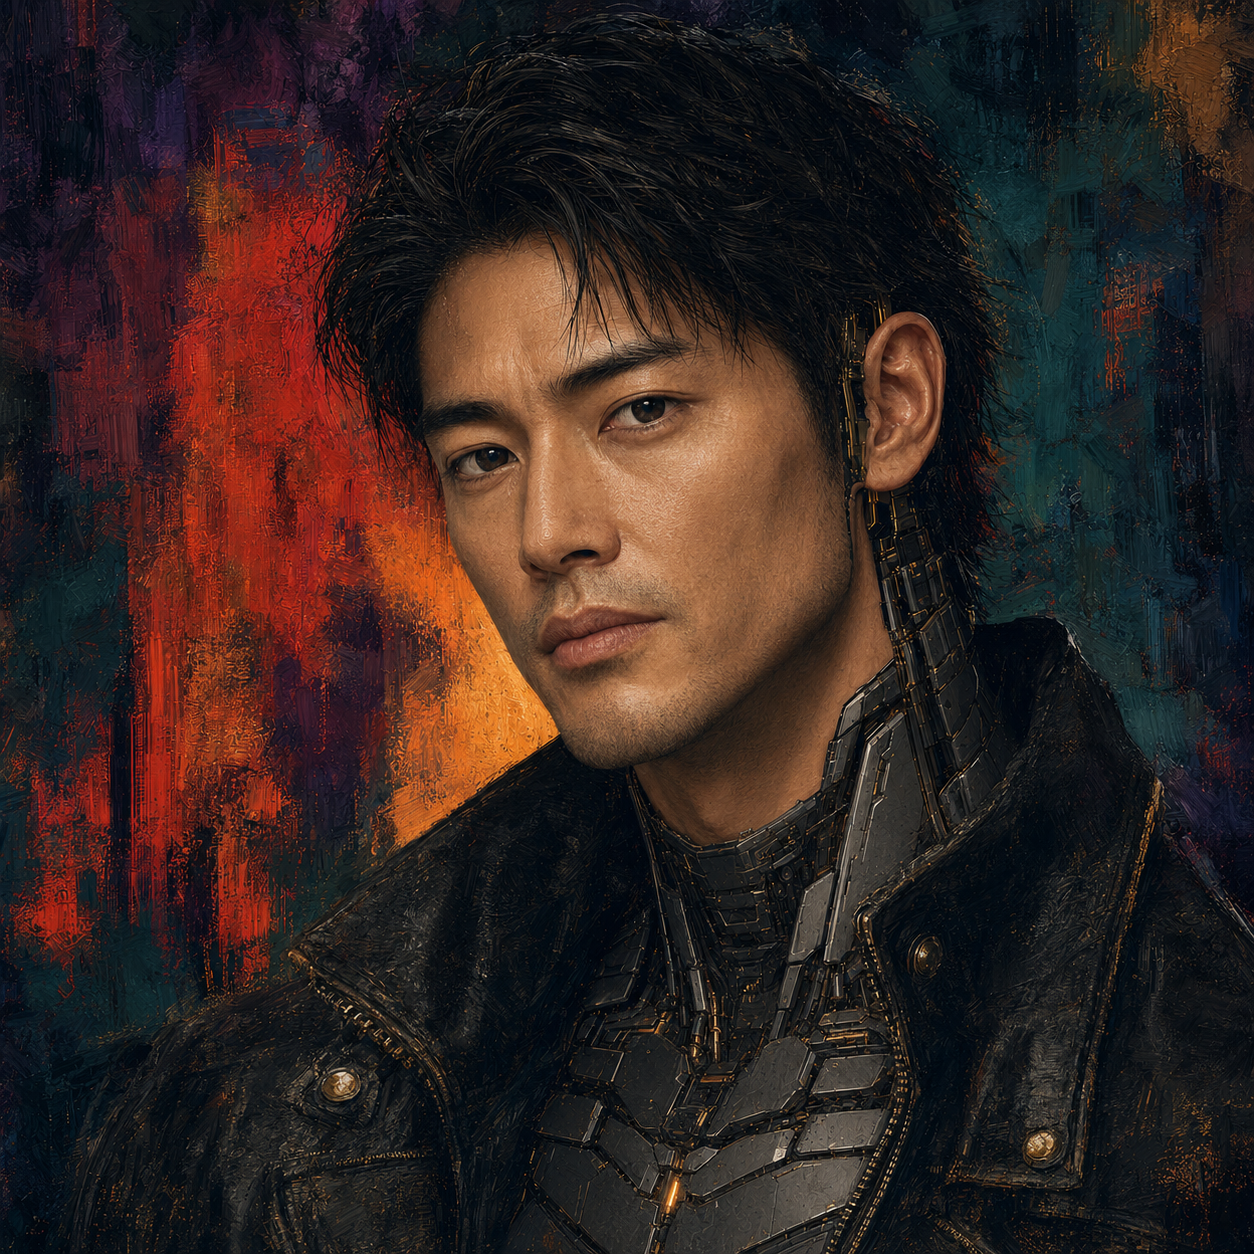
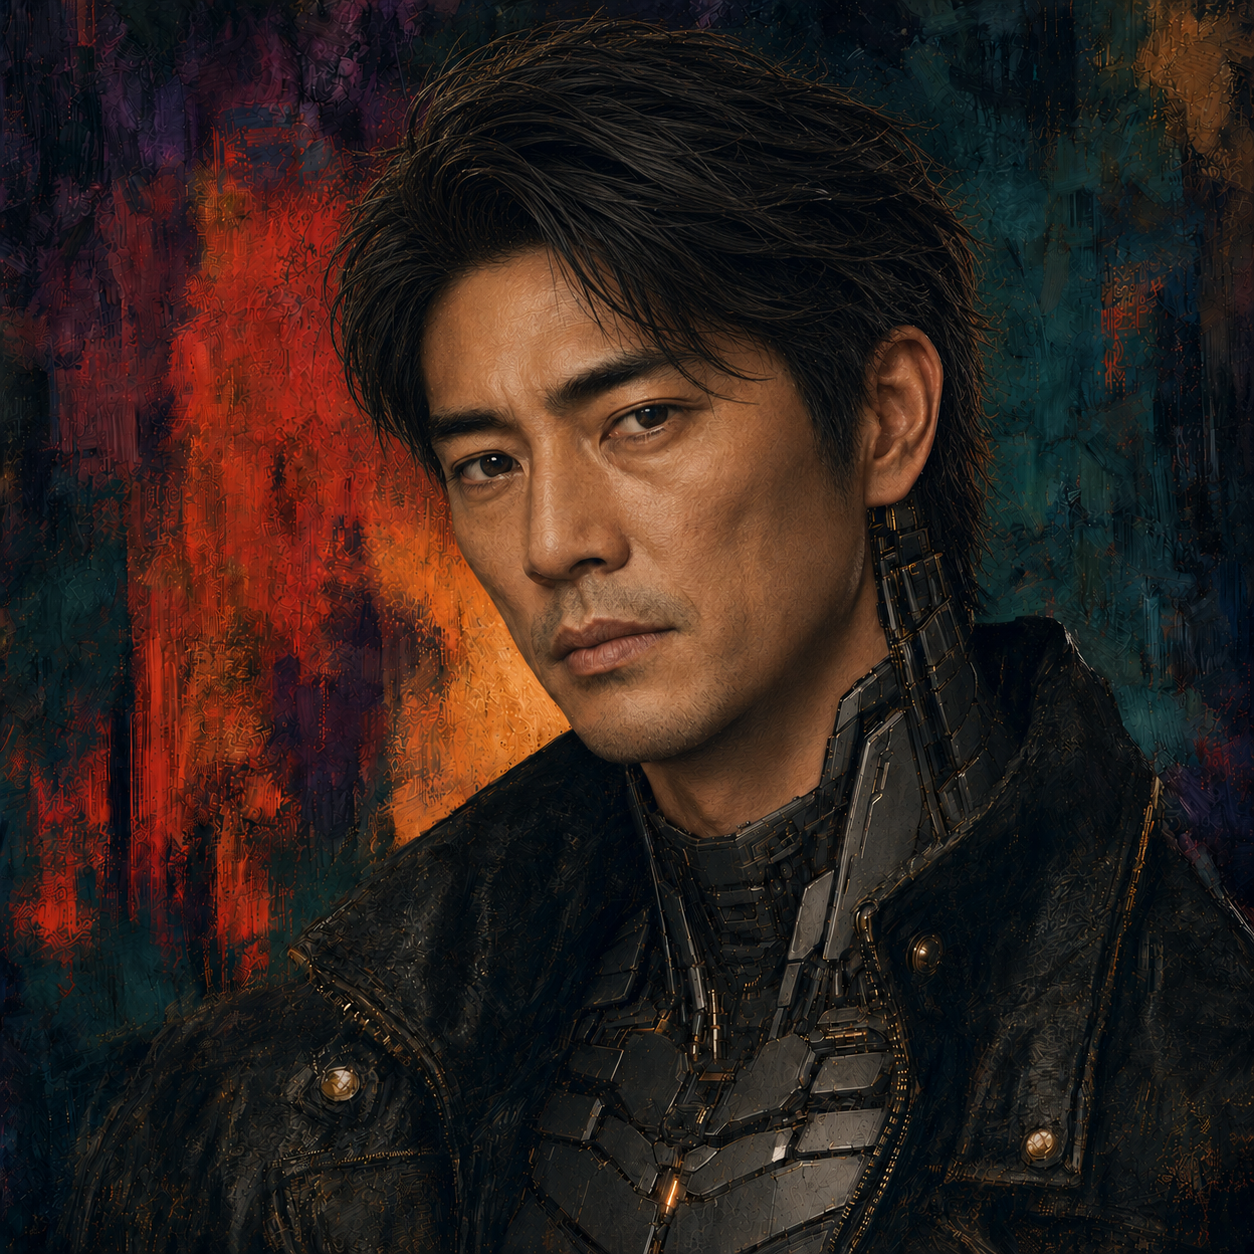
Fix mobile portrait layout and update Noe profile

diff --git a/app/globals.css b/app/globals.css
@@ -216,7 +216,8 @@ footer { padding: 35px clamp(24px, 7vw, 110px); border-top: 1px solid var(--line
   pointer-events: none;
   animation: portrait-arrive .38s cubic-bezier(.2,.8,.2,1);
 }
-.speaker-portrait-dock img {
+.speaker-portrait-dock img,
+.speaker-portrait-inline img {
   display: block;
   width: 100%;
   aspect-ratio: 1;
@@ -224,8 +225,10 @@ footer { padding: 35px clamp(24px, 7vw, 110px); border-top: 1px solid var(--line
   border: 1px solid rgba(221,215,196,.25);
   box-shadow: 0 20px 54px rgba(0,0,0,.58), 0 0 0 8px rgba(5,6,5,.18);
 }
-.speaker-portrait-dock img { height: auto; filter: saturate(.82) contrast(1.06); }
-.speaker-portrait-dock figcaption {
+.speaker-portrait-dock img,
+.speaker-portrait-inline img { height: auto; filter: saturate(.82) contrast(1.06); }
+.speaker-portrait-dock figcaption,
+.speaker-portrait-inline figcaption {
   margin-top: 9px;
   color: rgba(221,215,196,.58);
   font: 10px "Commit Mono", ui-monospace, monospace;
@@ -233,6 +236,7 @@ footer { padding: 35px clamp(24px, 7vw, 110px); border-top: 1px solid var(--line
   text-align: center;
   text-shadow: 0 2px 8px #000;
 }
+.speaker-portrait-inline { display: none; }
 .dialogue-panel {
   background:
     linear-gradient(90deg, rgba(255,255,255,.018), transparent 16%),
@@ -444,8 +448,14 @@ footer { padding: 35px clamp(24px, 7vw, 110px); border-top: 1px solid var(--line
   .reader-layout { display: block; }
   .scene-panel { height: 38svh; position: sticky; top: 0; z-index: 1; }
   .speaker-portrait-dock {
-    right: 22px;
-    width: 150px;
+    display: none;
+  }
+  .speaker-portrait-inline {
+    display: block;
+    width: min(42vw, 150px);
+    margin: 20px 0 4px auto;
+    pointer-events: none;
+    animation: portrait-arrive .38s cubic-bezier(.2,.8,.2,1);
   }
   .scene-caption { left: 20px; bottom: 15px; }
   .dialogue-panel { position: relative; z-index: 2; border-left: 0; border-top: 1px solid var(--line); }
@@ -463,7 +473,7 @@ footer { padding: 35px clamp(24px, 7vw, 110px); border-top: 1px solid var(--line
   .character-bio--profile { display: block; }
   .character-profile { width: min(68vw, 240px); margin-bottom: 24px; }
   .ink-stream { padding-inline: 18px; }
-  .speaker-portrait-dock { right: 16px; width: 122px; }
+  .speaker-portrait-inline { width: min(40vw, 142px); }
 }
 
 @media (prefers-reduced-motion: reduce) {

diff --git a/app/stories/rain-atlas/reader.tsx b/app/stories/rain-atlas/reader.tsx
@@ -267,6 +267,17 @@ export default function Reader() {
                       {line.text}
                     </p>
                   </div>
+                  {index === lines.length - 1 && portraitLabels[line.speaker] && (
+                    <figure className={`speaker-portrait-inline speaker-portrait-inline--${line.speaker}`}>
+                      <img
+                        src={`${assetBasePath}/assets/${line.speaker === "makoto" ? "makoto-hoshizawa-profile.png" : "noe-kurosaki-profile-v2.png"}`}
+                        width="1254"
+                        height="1254"
+                        alt={`${line.speaker === "makoto" ? "星沢真（Makoto Hoshizawa）" : "黑崎诺埃（Noé Kurosaki）"}人物肖像`}
+                      />
+                      <figcaption>{portraitLabels[line.speaker]}</figcaption>
+                    </figure>
+                  )}
                 </article>
               );
             })}
